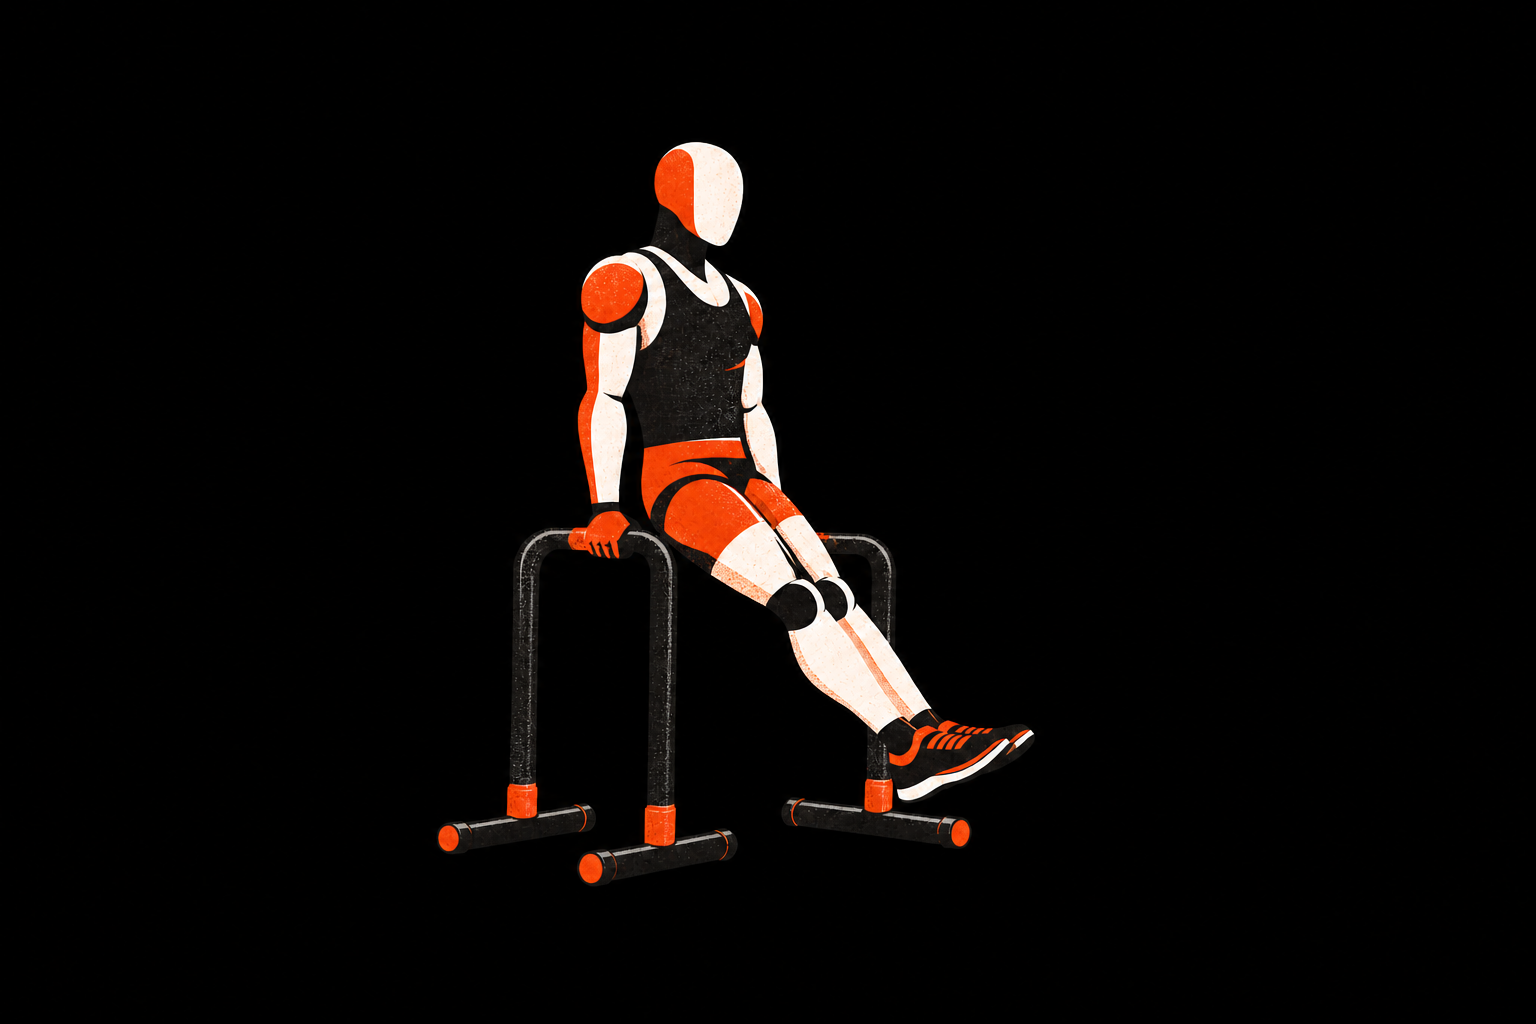
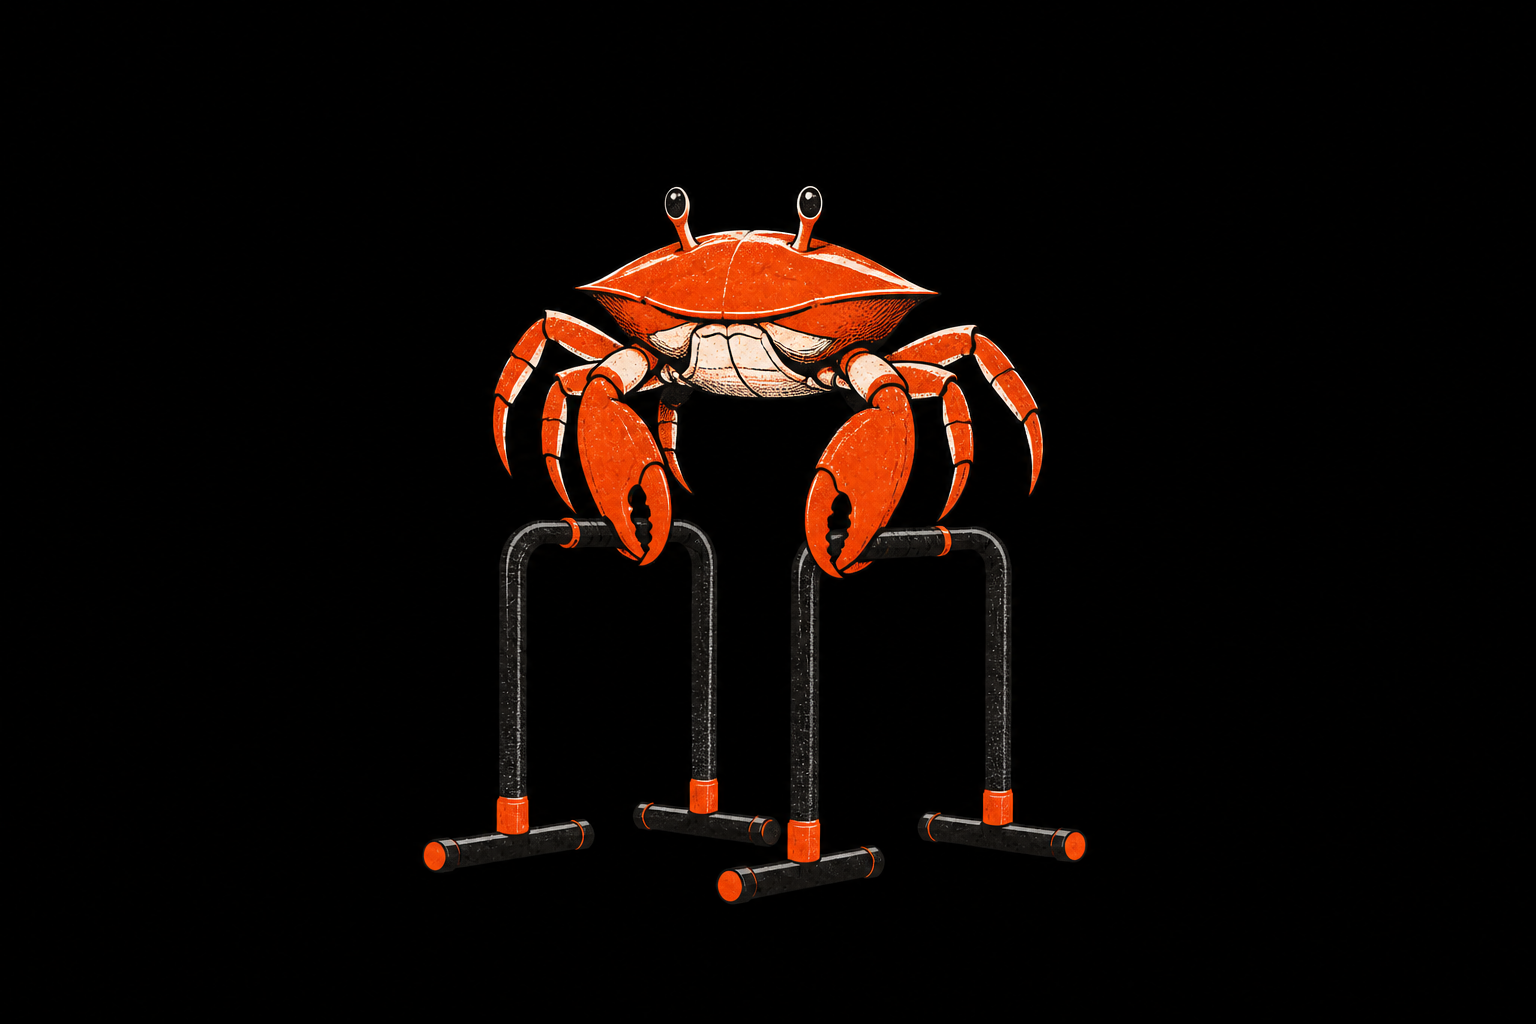
Update images

Changed region(s): [[0.25, 0.125, 0.7188, 0.875]]

diff --git a/index.html b/index.html
@@ -345,7 +345,21 @@
 
       .host {
         padding: 20px 0;
+        display: grid;
+        grid-template-columns: 64px 1fr;
+        align-items: center;
+        gap: 16px;
         border-block: 1px solid var(--line);
+      }
+
+      .host-photo {
+        width: 64px;
+        height: 64px;
+        display: block;
+        object-fit: cover;
+        border: 2px solid var(--ink);
+        border-radius: 50%;
+        box-shadow: 4px 4px 0 var(--orange);
       }
 
       .host p {
@@ -523,7 +537,7 @@
           <h2 class="section-heading" id="pick-heading">Three ways onto the board.</h2>
           <div class="challenge-grid">
             <article class="challenge">
-              <img class="challenge-art" src="assets/push-ups.png" alt="Geometric figure demonstrating a push-up" />
+              <img class="challenge-art" src="assets/push-ups.png" alt="Illustrated crab demonstrating a push-up" />
               <div class="challenge-copy">
                 <span class="challenge-num">01 / REPS</span>
                 <h3>Push-ups</h3>
@@ -531,7 +545,7 @@
               </div>
             </article>
             <article class="challenge">
-              <img class="challenge-art" src="assets/dips.png" alt="Geometric figure demonstrating a triceps dip" />
+              <img class="challenge-art" src="assets/dips.png" alt="Illustrated crab demonstrating a triceps dip" />
               <div class="challenge-copy">
                 <span class="challenge-num">02 / REPS</span>
                 <h3>Dips</h3>
@@ -539,7 +553,7 @@
               </div>
             </article>
             <article class="challenge">
-              <img class="challenge-art" src="assets/bar-hold.png" alt="Geometric figure demonstrating a timed hold on dip bars" />
+              <img class="challenge-art" src="assets/bar-hold.png" alt="Illustrated crab demonstrating a timed hold on dip bars" />
               <div class="challenge-copy">
                 <span class="challenge-num">03 / TIME</span>
                 <h3>Dip bar hold</h3>
@@ -556,8 +570,11 @@
           <h2 class="section-heading" id="how-heading">How it works.</h2>
           <img class="logo" src="logo.png" alt="Rust and Reps" />
           <div class="host">
-            <p>Challenge host</p>
-            <a href="https://github.com/orhun" target="_blank" rel="noreferrer">github.com/orhun ↗</a>
+            <img class="host-photo" src="assets/orhun.png" alt="Orhun Parmaksiz" />
+            <div>
+              <p>Challenge host</p>
+              <a href="https://github.com/orhun" target="_blank" rel="noreferrer">github.com/orhun ↗</a>
+            </div>
           </div>
         </div>
 
